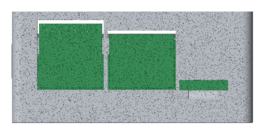
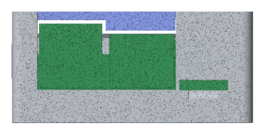
fix(case): one USB/RJ45 opening open to the top; the lid's lintel closes it
Print feedback: the 0.9 mm pillar between the USB and RJ45 openings and the
1 mm strip above them were too thin. The two openings merge into one cut
up through the wall top (no pillar, no bridge), and the lid gets a stepped
lintel, flush with the outer face, that fills it 1 mm above the USB stack
and the RJ45. Spec, docs and previews updated.

Claude-Session: https://claude.ai/code/session_01NRMLBLuUy5566yU1ZeqFdZ

diff --git a/case/tests/test_base.py b/case/tests/test_base.py
@@ -43,7 +43,7 @@ class TestDefaultBase:
             assert solid(
                 base, x, y, 26.1
             )  # below the rebate floor: wall (header end has the slot)
-        for x, y in ((x0 - 1.5, 34), (x1 + 1.5, 34), (27.5, y0 - 1.5)):
+        for x, y in ((x0 - 1.5, 34), (x1 + 1.5, 34), (45.0, y0 - 1.5)):
             assert solid(base, x, y, 27.1)  # outer half reaches the top
 
     def test_has_the_usb_rj45_and_sd_openings_at_the_spec_positions(self, base):
@@ -58,11 +58,16 @@ class TestDefaultBase:
         assert not solid_bz(base, 45.0, y, 1.0)  # microSD slot
         assert solid_bz(base, 45.0, y, 2.3)  # above the slot
 
-    def test_leaves_at_least_1_mm_of_wall_above_the_usb_opening(self, base):
-        top = P.USB_BOX.z1 + P.OPENING_TOP_MARGIN
-        assert not solid_bz(base, 12.0, -1.5, top - 0.05)
-        assert solid_bz(base, 12.0, -1.5, top + 0.05)
-        assert P.REBATE_FLOOR - (top + P.BOARD_Z_IN_CASE) >= 1.0 - 1e-6
+    def test_has_one_usb_and_rj45_opening_open_to_the_wall_top(self, base):
+        y = -1.5
+        mid = P.LINTEL_SPLIT_X
+        assert not solid_bz(base, mid, y, 8.0)  # no pillar between USB and RJ45
+        assert not solid(base, 12.0, y, P.TOP - 0.1)  # open to the top: no bridge
+        assert not solid(base, 30.0, y, P.TOP - 0.1)
+        assert solid_bz(base, P.CABLE_OPENING_X[0] - 0.2, y, 8.0)
+        assert solid_bz(
+            base, P.CABLE_OPENING_X[1] + 0.3, y, 8.0
+        )  # above the microSD slot
 
     def test_has_the_header_slot_open_to_the_top_with_3_5_clear(self, base):
         y = P.INNER[3] + 1.5  # outer half of the header-end wall

diff --git a/case/p4_case/lid.py b/case/p4_case/lid.py
@@ -164,9 +164,25 @@ def _tabs() -> Part:
     return tabs + [_bump(s, e) for s, e in corners]
 
 
+def _lintel() -> Part:
+    """Fills the base's cable-wall opening above the connectors, flush with the wall's outer face.
+
+    It stops OPENING_TOP_MARGIN above the USB stack and above the RJ45 (stepping at LINTEL_SPLIT_X), with LID_CLEAR to
+    the opening's sides.
+    """
+    cx0, cx1 = P.CABLE_OPENING_X
+    c = P.LID_CLEAR
+    y0, y1 = P.OUTER[2], IY0 + P.LID_CLEAR + EPS
+    usb_bottom = P.USB_BOX.z1 + P.OPENING_TOP_MARGIN
+    rj_bottom = P.RJ45_BOX.z1 + P.OPENING_TOP_MARGIN
+    return block(
+        cx0 + c, P.LINTEL_SPLIT_X, y0, y1, min(usb_bottom, UNDER), TOP
+    ) + block(P.LINTEL_SPLIT_X - EPS, cx1 - c, y0, y1, rj_bottom, TOP)
+
+
 def build_lid() -> Part:
     """The lid as one solid, in the board frame as fitted (top face flush at case Z 27.6)."""
-    return _plate() + _tabs() - _grille()
+    return _plate() + _lintel() + _tabs() - _grille()
 
 
 def opening_widths(lid: Part) -> list[float]:

diff --git a/case/tests/test_lid.py b/case/tests/test_lid.py
@@ -109,3 +109,22 @@ class TestLidOnBase:
 
         r = lid_seats(base, lid)
         assert r.ok, r.detail
+
+
+class TestLidLintel:
+    """lid.build_lid: The lintel over the cable-wall opening"""
+
+    def test_fills_the_cut_above_the_usb_flush_with_the_outer_face(self, lid):
+        assert solid(lid, 12.0, P.OUTER[2] + 0.1, P.TOP - 0.5)
+        assert solid(lid, 12.0, -1.5, P.LID_UNDERSIDE + 0.5)
+
+    def test_reaches_down_to_1_mm_above_the_rj45(self, lid):
+        bottom = P.RJ45_BOX.z1 + P.OPENING_TOP_MARGIN
+        assert solid(lid, 30.0, -1.5, P.BOARD_Z_IN_CASE + bottom + 0.1)
+        assert not solid(lid, 30.0, -1.5, P.BOARD_Z_IN_CASE + bottom - 0.1)
+
+    def test_keeps_lid_clearance_to_the_opening_sides(self, lid):
+        x0, x1 = P.CABLE_OPENING_X
+        assert not solid(lid, x0 + 0.1, -1.5, P.TOP - 0.5)
+        assert solid(lid, x0 + 0.3, -1.5, P.TOP - 0.5)
+        assert not solid(lid, x1 - 0.1, -1.5, P.TOP - 0.5)

diff --git a/case/p4_case/params.py b/case/p4_case/params.py
@@ -54,10 +54,15 @@ KEY_HEAD_H = 2.5
 
 # --- cable wall openings (5.2) ---
 OPENING_MARGIN = 0.5
-OPENING_TOP_MARGIN = 1.0  # extra room at the top so the board can tilt in
+OPENING_TOP_MARGIN = 1.0  # room between a connector's top and the lid's lintel above it
 OPENING_BOTTOM = -0.5  # board Z of the USB/RJ45 opening bottoms
 USB_BOX, RJ45_BOX, SD_BOX = FACTS["usb"], FACTS["rj45"], FACTS["sd"]
 SD_SLOT = (39.2, 51.4, -0.6, 2.0)  # x0, x1, board z0, z1
+# USB and RJ45 share one opening, cut up through the wall top; the lid's lintel fills it above the connectors
+CABLE_OPENING_X = (FACTS["usb"].x0 - OPENING_MARGIN, FACTS["rj45"].x1 + OPENING_MARGIN)
+LINTEL_SPLIT_X = (
+    FACTS["usb"].x1 + FACTS["rj45"].x0
+) / 2  # where the lintel steps from the USB to the RJ45 height
 SCOOP_X = (41.5, 49.0)
 SCOOP_R = 2.4
 SCOOP_DEPTH = 1.5  # into the cable wall's outer face, at the slot's bottom edge

diff --git a/case/p4_case/base.py b/case/p4_case/base.py
@@ -113,12 +113,11 @@ def _keyholes() -> Part:
 
 def _cable_wall_openings() -> Part:
     y0, y1 = P.OUTER[2] - 1, P.INNER[2] + EPS
-    m, top_m = P.OPENING_MARGIN, P.OPENING_TOP_MARGIN
-    usb, rj = P.USB_BOX, P.RJ45_BOX
     sx0, sx1, sz0, sz1 = P.SD_SLOT
+    cx0, cx1 = P.CABLE_OPENING_X
     cuts = [
-        block(usb.x0 - m, usb.x1 + m, y0, y1, P.OPENING_BOTTOM, usb.z1 + top_m),
-        block(rj.x0 - m, rj.x1 + m, y0, y1, P.OPENING_BOTTOM, rj.z1 + top_m),
+        # one opening for USB and RJ45, open to the wall top: no thin pillar, no bridge; the lid's lintel closes it
+        block(cx0, cx1, y0, y1, P.OPENING_BOTTOM, board_z(P.TOP) + 1),
         block(sx0, sx1, y0, y1, sz0, sz1),
     ]
     scoop_y = P.OUTER[2] - (P.SCOOP_R - P.SCOOP_DEPTH)

diff --git a/docs/superpowers/specs/2026-11-02-p4-case-design.md b/docs/superpowers/specs/2026-11-02-p4-case-design.md
@@ -157,14 +157,15 @@ top flush) and half the wall thickness wide. The lid is stepped: a 1 mm flange s
 sits inside the walls (2 mm total), so its underside is at case Z 25.6.
 
 - **Cable wall (Y = 0 edge):**
-  - **Openings:** one for the USB stack (USB-C and USB-A together), one for the RJ45 and one slot for the microSD.
-    - Each is the connector envelope plus 0.5 mm, except the top edge of the USB and RJ45 openings, which gets 1 mm of
-      extra room.
-    - The USB opening's top edge (case Z ≈ 25.6) leaves 1 mm of wall below the rebate floor (26.6).
+  - **Openings:** one shared opening for the USB stack (USB-C and USB-A) and the RJ45, and one slot for the microSD.
+    - The shared opening spans the two connectors plus 0.5 mm at each end (X 3.76–38.40), from 0.5 mm below the
+      board's top face up through the top of the wall. There is no pillar between USB and RJ45 (it would be 0.9 mm
+      wide) and no strip above them (it would be 1 mm tall): both were too thin to print well.
+    - The lid's lintel (5.3) closes the opening above the connectors.
   - **microSD:** the slot runs from 0.6 mm below the board's top face to 2 mm above it, across X 39.2–51.4. It has a
     thumb scoop in the outer face below it, so a fingernail or pencil can push the card in and out.
   - The connector faces end up 0.5–0.8 mm behind the outer face.
-  - The tops of these openings print as bridges up to about 17 mm. That's accepted (see section 8).
+  - The shared opening has no top, so it needs no bridge; the microSD slot's top bridges 12.2 mm.
 - **Header-end wall (Y = 68 edge):**
   - A cable slot 54 mm wide (X 0.5–54.5), cut from case Z 22.1 up through the top of the wall so it needs no bridge.
     The lid closes it from above. The narrowest point of the path into the case is at the wall's inner face, between
@@ -196,6 +197,10 @@ sits inside the walls (2 mm total), so its underside is at case Z 25.6.
   - Honeycomb inside the frame, holes 3.5 mm across flats, 1 mm walls (about 60% open).
   - One cross rib about 1.8 mm wide across the middle (around board Y 34) stiffens it.
   - The grille sits flat on the build plate when printing, so it has no bridges.
+- **Lintel:** a block on the lid's cable-end edge that fills the base's shared opening above the connectors, flush with
+  the wall's outer face, with 0.2 mm (LID_CLEAR) to the opening's sides. It stops 1 mm above the USB stack (at the
+  lid's underside) and 1 mm above the RJ45, stepping between them. When the lid prints top-face down, it stands up from
+  the top face, so it needs no support.
 - **Corner tabs (snaps and guide pins):**
   - Four identical tabs, hanging from the frame's underside into the four inner corners of the base, against the side
     walls. Each is 10 mm long along the side wall and reaches 3.5 mm below the lid's underside, to about 13.5 mm above the
@@ -288,7 +293,7 @@ These are automated checks, run against the vendor STEP:
 - With the lid fitted, the lid and the base do not overlap anywhere.
 - Both parts are watertight solids.
 - Printability: with the stated print orientations, there are no unsupported overhangs past 45°, except bridges of
-  18 mm or less (the cable-wall openings).
+  18 mm or less (the microSD slot's top, 12.2 mm).
 
 The physical check is the user's: they print both parts, fit the board, plug every connector, press both buttons with a
 pencil, insert and eject a card, fit and remove the lid, and hang the case both ways.

diff --git a/docs/case.md b/docs/case.md
@@ -53,9 +53,10 @@ make case-test    # the model's tests (about 1.5 min)
 - PETG is best because the lid tabs flex. PLA works if you'll rarely open the lid.
 - 0.4 mm nozzle and 0.2 mm layers.
 - No supports, no brim needed.
-- **Base:** back plate on the bed. The tops of the cable-wall openings bridge up to 17 mm.
-- **Lid:** top face on the bed, tabs pointing up. Give it solid (100 %) infill, or at least 4 perimeters. The tabs grow
-  layer by layer along their length, so the layer bonds take the load when the lid clicks in.
+- **Base:** back plate on the bed. The only bridge is the top of the microSD slot (12 mm).
+- **Lid:** top face on the bed, the tabs and the cable-end lintel pointing up. Give it solid (100 %) infill, or at
+  least 4 perimeters. The tabs grow layer by layer along their length, so the layer bonds take the load when the lid
+  clicks in.
 
 ## Parts
 
